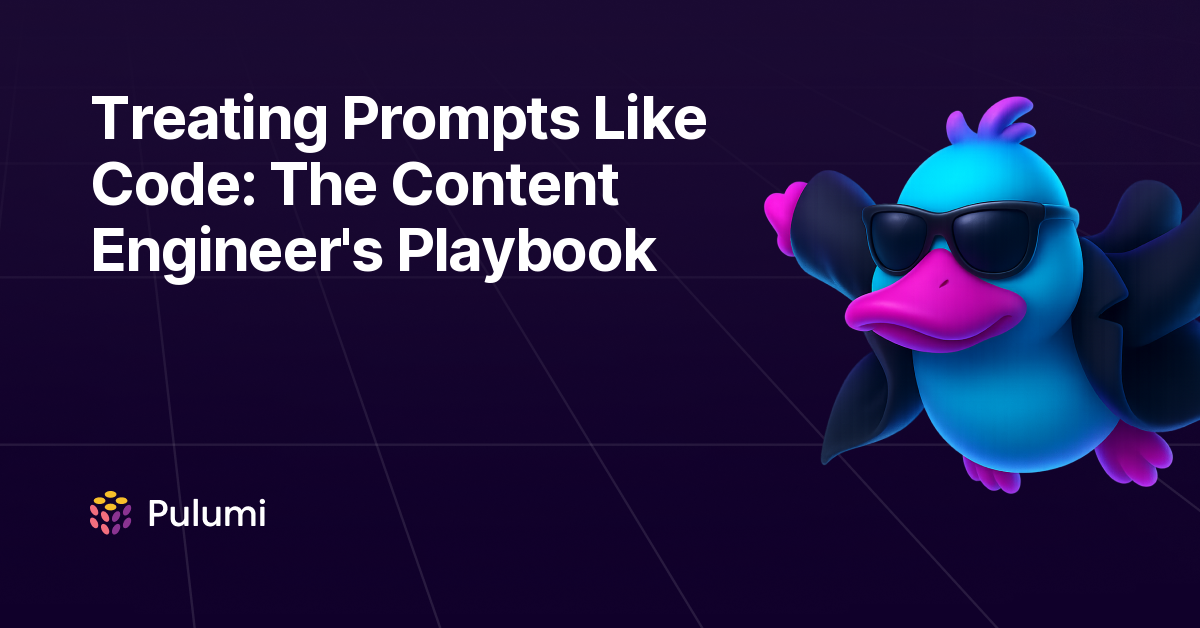
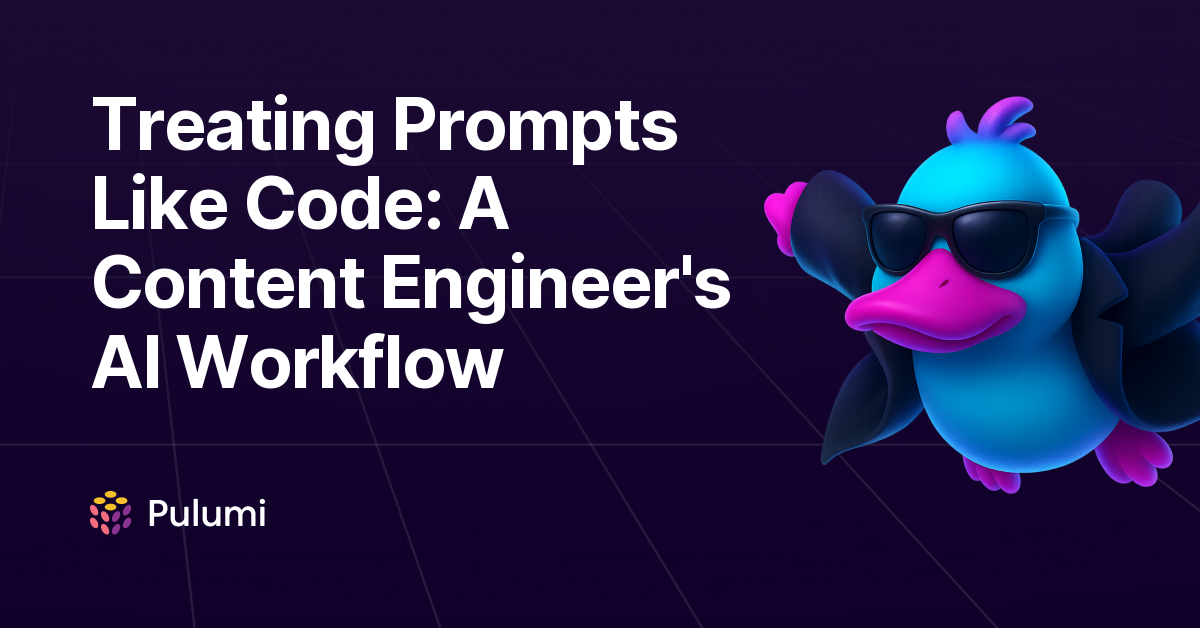
Addressing feedback

Changed region(s): [[0.0617, 0.1513, 0.6167, 0.6354]]

diff --git a/content/blog/treating-prompts-like-code/index.md b/content/blog/treating-prompts-like-code/index.md
@@ -1,5 +1,5 @@
 ---
-title: "Treating Prompts Like Code: The Content Engineer's Playbook"
+title: "Treating Prompts Like Code: A Content Engineer's AI Workflow"
 date: 2026-03-03
 draft: false
 meta_desc: "How I built a modular AI workflow system to scale a solo docs practice — treating prompts like code, with reusable skills, shared context, and CI/CD."
@@ -17,7 +17,7 @@ Pulumi has a lot of engineers. It has marketers, solution architects, developer 
 
 The problem was clear enough: how do you take one docs engineer's accumulated knowledge and make it available to everyone who needs it, without that engineer becoming a bottleneck?
 
-I started packaging it.
+I started packaging it. Here's what that looked like in practice.
 
 <!--more-->
 
@@ -110,5 +110,7 @@ The next frontier is bringing some of this tooling to the less technical members
 If you're a technical writer, a developer advocate, or a solo practitioner figuring out how AI fits into your workflow, the approach described here is a solid starting point. The tools matter, but the mental model matters more: treat your prompts like code. Make them reusable. Document them. Share them.
 
 The blank page is still there. It's just a lot less intimidating when you've got a good collaborator and a solid set of tools.
+
+Our docs repo is public, so the skills are there for anyone who wants them. If you're building something similar, steal freely — or contribute back.
 
 {{< blog/cta-button "See our docs skills for inspiration" "https://github.com/pulumi/docs/tree/master/.claude/commands" "_blank" >}}
